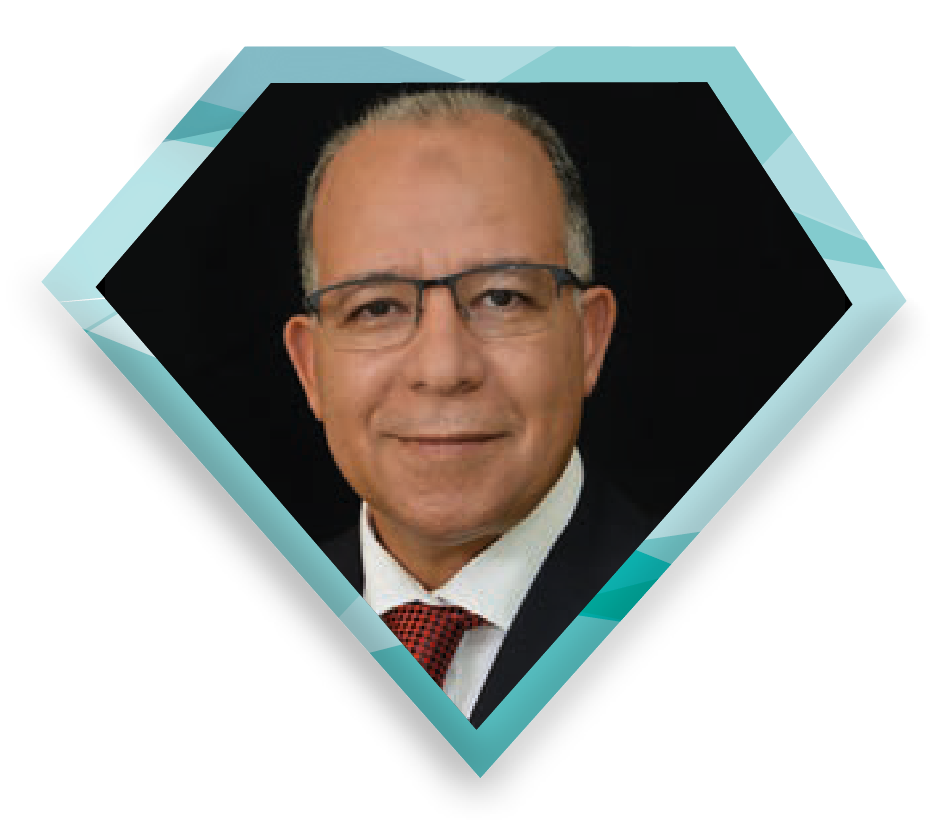
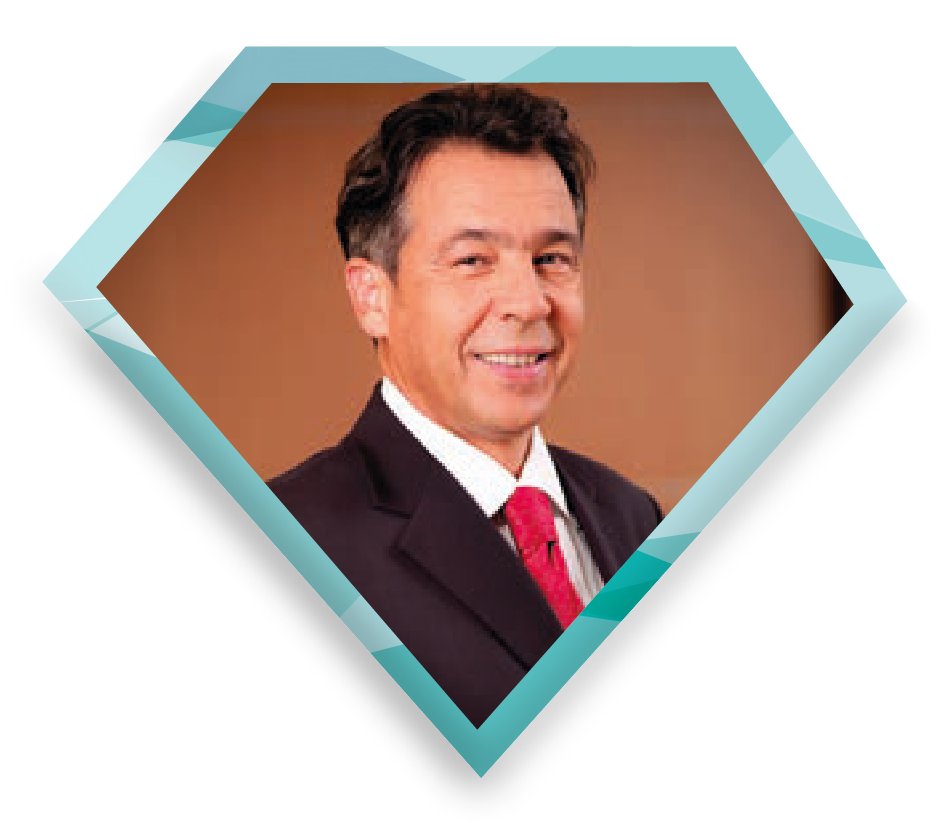
feat: update GovernanceCarousel component with multilingual subtitles and enhanced slide data

diff --git a/src/components/ui/GovernanceCarousel.vue b/src/components/ui/GovernanceCarousel.vue
@@ -16,7 +16,7 @@
       }"
       class="content-swiper"
     >
-      <swiper-slide v-for="slide in slides" :key="slide.id" class="h-auto px-64">
+      <swiper-slide v-for="(slide, i) in slides" :key="i" class="h-auto px-64">
         <div class="slide-card text-gray-600">
           <div class="flex gap-8">
             <img
@@ -26,7 +26,10 @@
             />
             <div>
               <h3 class="text-2xl font-bold text-primary uppercase">{{ slide.title }}</h3>
-              <h4 class="text-2xl font-bold text-accent">{{ slide.subtitle }}</h4>
+              <h4 class="text-2xl font-bold text-accent">
+                <span v-if="currentLanguage === 'en'">{{ slide.subtitleEn }}</span>
+                <span v-else-if="currentLanguage === 'fr'">{{ slide.subtitleFr }}</span>
+              </h4>
               <div class="mt-4">
                 <p v-if="currentLanguage === 'en'">{{ slide.content1En }}</p>
                 <p v-else-if="currentLanguage === 'fr'">
@@ -65,10 +68,10 @@ const modules = [Navigation, Pagination, Autoplay, EffectFade];
 
 const slides = [
   {
-    id: 1,
     img: "/assets/images/backgrounds/Biographies-01.png",
-    title: "Conseil d'Administration",
-    subtitle: "Gouvernance Stratégique",
+    title: "M. Othman Benjelloun",
+    subtitleFr: "PRÉSIDENT DIRECTEUR GÉNÉRAL DE BANK OF AFRICA",
+    subtitleEn: "CHAIRMAN & CHIEF EXECUTIVE OFFICER",
     content1Fr:
       "Le Conseil d'Administration de Bank of Africa définit les orientations stratégiques et supervise la mise en œuvre des politiques de développement durable.",
     content2Fr:
@@ -79,10 +82,10 @@ const slides = [
       "It ensures compliance with governance standards and protection of stakeholders' interests.",
   },
   {
-    id: 2,
     img: "/assets/images/backgrounds/Biographies-02.png",
-    title: "Comité d'Audit",
-    subtitle: "Contrôle et Transparence",
+    title: "M. Zouheir Bensaid",
+    subtitleFr: "Représentant de RMA",
+    subtitleEn: "RMA's Representative",
     content1Fr:
       "Le Comité d'Audit veille à la fiabilité des informations financières et à l'efficacité des systèmes de contrôle interne.",
     content2Fr:
@@ -93,10 +96,10 @@ const slides = [
       "It supervises external and internal audits to guarantee transparency and regulatory compliance.",
   },
   {
-    id: 3,
     img: "/assets/images/backgrounds/Biographies-03.png",
-    title: "Comité des Risques",
-    subtitle: "Gestion des Risques",
+    title: "M. Lucien Miara",
+    subtitleFr: "Représentant Permanent de la Banque Fédérale du Crédit Mutuel",
+    subtitleEn: "Permanent Representative of the Federal Bank of Mutual Credit",
     content1Fr:
       "Le Comité des Risques identifie, évalue et surveille tous les types de risques auxquels la banque est exposée.",
     content2Fr:
@@ -107,24 +110,10 @@ const slides = [
       "It defines risk management policies and ensures their effective implementation.",
   },
   {
-    id: 4,
     img: "/assets/images/backgrounds/Biographies-04.png",
-    title: "Comité de Rémunération",
-    subtitle: "Politique de Rémunération",
-    content1Fr:
-      "Le Comité de Rémunération établit les politiques de rémunération alignées sur les objectifs stratégiques de la banque.",
-    content2Fr:
-      "Il veille à l'équité et à la compétitivité des packages de rémunération pour attirer et retenir les talents.",
-    content1En:
-      "The Remuneration Committee establishes remuneration policies aligned with the bank's strategic objectives.",
-    content2En:
-      "It ensures the fairness and competitiveness of remuneration packages to attract and retain talent.",
-  },
-  {
-    id: 5,
-    img: "/assets/images/backgrounds/Biographies-05.png",
-    title: "Comité de Nomination",
-    subtitle: "Sélection et Gouvernance",
+    title: "M. Abdellatif Zaghnoun",
+    subtitleFr: "Représentant Permanent de la Caisse de Dépot et de Gestion",
+    subtitleEn: "Permanent Representative of the Deposit and Management Fund",
     content1Fr:
       "Le Comité de Nomination supervise la sélection et la nomination des membres du conseil et des dirigeants clés.",
     content2Fr:
@@ -135,10 +124,10 @@ const slides = [
       "It ensures the diversity, skills and independence necessary for the proper functioning of governance bodies.",
   },
   {
-    id: 6,
-    img: "/assets/images/backgrounds/Biographies-06.png",
-    title: "Direction Générale",
-    subtitle: "Exécution Stratégique",
+    img: "/assets/images/backgrounds/Biographies-05.png",
+    title: "M. Hicham El Amrani",
+    subtitleFr: "Représentant Permanent de O Capital Group",
+    subtitleEn: "O Capital Group's Permanent Representative",
     content1Fr:
       "La Direction Générale assure l'exécution de la stratégie définie par le Conseil d'Administration.",
     content2Fr:
@@ -149,10 +138,10 @@ const slides = [
       "It coordinates operational activities and ensures the achievement of performance and sustainable development objectives.",
   },
   {
-    id: 7,
-    img: "/assets/images/backgrounds/Biographies-07.png",
-    title: "Contrôle Interne",
-    subtitle: "Surveillance et Conformité",
+    img: "/assets/images/backgrounds/Biographies-06.png",
+    title: "M. Azeddine Guessous",
+    subtitleFr: "Administrateur Intuitu Personae",
+    subtitleEn: "Intuitu Personae Director",
     content1Fr:
       "Le département de Contrôle Interne surveille en permanence les processus et procédures pour assurer leur conformité.",
     content2Fr:
@@ -163,10 +152,10 @@ const slides = [
       "It identifies potential gaps and recommends improvements to strengthen operational efficiency.",
   },
   {
-    id: 8,
-    img: "/assets/images/backgrounds/Biographies-08.png",
-    title: "Audit Interne",
-    subtitle: "Évaluation Indépendante",
+    img: "/assets/images/backgrounds/Biographies-07.png",
+    title: "M. Marc Beaujean",
+    subtitleFr: "Représentant Permanent de British International Investment (CDC Ltd)",
+    subtitleEn: "British International Investment (CDC Ltd) Permanent Representative",
     content1Fr:
       "L'Audit Interne fournit une évaluation indépendante de l'efficacité des systèmes de gouvernance et de contrôle.",
     content2Fr:
@@ -177,10 +166,10 @@ const slides = [
       "It contributes to the continuous improvement of processes and operational risk management.",
   },
   {
-    id: 9,
-    img: "/assets/images/backgrounds/Biographies-09.png",
-    title: "Développement Durable",
-    subtitle: "Responsabilité Sociétale",
+    img: "/assets/images/backgrounds/Biographies-08.png",
+    title: "M. Mohamed Kabbaj",
+    subtitleFr: "Administrateur Indépendant",
+    subtitleEn: "Independent Director",
     content1Fr:
       "L'intégration du développement durable dans la gouvernance guide toutes les décisions stratégiques de la banque.",
     content2Fr:
@@ -191,10 +180,10 @@ const slides = [
       "This approach ensures a positive impact on the environment, society and the African economy.",
   },
   {
-    id: 10,
-    img: "/assets/images/backgrounds/Biographies-10.png",
-    title: "Innovation et Transformation",
-    subtitle: "Vision Future",
+    img: "/assets/images/backgrounds/Biographies-09.png",
+    title: "Mme Nezha Lahrichi",
+    subtitleFr: "Administratrice Indépendante",
+    subtitleEn: "Independent Director",
     content1Fr:
       "La gouvernance encourage l'innovation et la transformation digitale pour maintenir la compétitivité de la banque.",
     content2Fr:
@@ -205,10 +194,10 @@ const slides = [
       "It promotes the adoption of new technologies while preserving the fundamental values of the institution.",
   },
   {
-    id: 11,
-    img: "/assets/images/backgrounds/Biographies-11.png",
-    title: "Gestion des Talents",
-    subtitle: "Capital Humain",
+    img: "/assets/images/backgrounds/Biographies-10.png",
+    title: "M. Abdou Bensouda",
+    subtitleFr: "Administrateur Intuitu Personae",
+    subtitleEn: "Intuitu Personae Director",
     content1Fr:
       "La gouvernance met l'accent sur le développement et la rétention des talents pour assurer la pérennité de l'institution.",
     content2Fr:
@@ -219,10 +208,10 @@ const slides = [
       "It promotes an inclusive and stimulating work environment for all employees.",
   },
   {
-    id: 12,
-    img: "/assets/images/backgrounds/Biographies-12.png",
-    title: "Relation Client",
-    subtitle: "Excellence Service",
+    img: "/assets/images/backgrounds/Biographies-11.png",
+    title: "M. Brahim Benjelloun-Touimi",
+    subtitleFr: "Administrateur Directeur Général Délégué",
+    subtitleEn: "Director and General Manager",
     content1Fr:
       "La gouvernance place la satisfaction client au cœur de ses préoccupations stratégiques.",
     content2Fr:
@@ -233,10 +222,10 @@ const slides = [
       "It ensures the highest standards of service quality and customer experience are maintained.",
   },
   {
-    id: 13,
-    img: "/assets/images/backgrounds/Biographies-13.png",
-    title: "Partenariats Stratégiques",
-    subtitle: "Collaboration Efficace",
+    img: "/assets/images/backgrounds/Biographies-12.png",
+    title: "Mme Myryem Bouazzaoui",
+    subtitleFr: "Administratrice Intuitu Personae",
+    subtitleEn: "Intuitu Personae Director",
     content1Fr:
       "La gouvernance supervise le développement de partenariats stratégiques pour renforcer la position de la banque.",
     content2Fr:
@@ -247,10 +236,10 @@ const slides = [
       "It ensures these alliances create value for all stakeholders.",
   },
   {
-    id: 14,
-    img: "/assets/images/backgrounds/Biographies-14.png",
-    title: "Régulation Bancaire",
-    subtitle: "Conformité Réglementaire",
+    img: "/assets/images/backgrounds/Biographies-13.png",
+    title: "M. Brian C. Mck Henderson",
+    subtitleFr: "Conseiller auprès de la Présidence",
+    subtitleEn: "Advisor to the Chairman",
     content1Fr:
       "La gouvernance assure le respect strict de toutes les réglementations bancaires nationales et internationales.",
     content2Fr:
@@ -261,10 +250,10 @@ const slides = [
       "It anticipates regulatory changes to maintain permanent compliance.",
   },
   {
-    id: 15,
-    img: "/assets/images/backgrounds/Biographies-15.png",
-    title: "Inclusion Financière",
-    subtitle: "Accessibilité Services",
+    img: "/assets/images/backgrounds/Biographies-14.png",
+    title: "Mounir Chraibi",
+    subtitleFr: "Directeur Général Exécutif en charge des Fonctions et Opérations Groupe",
+    subtitleEn: "Executive General Manager Responsible for Group Functions and Operations",
     content1Fr:
       "La gouvernance promeut l'inclusion financière pour démocratiser l'accès aux services bancaires.",
     content2Fr:
@@ -275,10 +264,10 @@ const slides = [
       "It develops solutions adapted to the needs of unbanked populations.",
   },
   {
-    id: 16,
-    img: "/assets/images/backgrounds/Biographies-16.png",
-    title: "Cybersécurité",
-    subtitle: "Protection Numérique",
+    img: "/assets/images/backgrounds/Biographies-15.png",
+    title: "M. Khalid Nasr",
+    subtitleFr: "Directeur Général Exécutif en charge de CIB & Maroc",
+    subtitleEn: "Executive General Manager Responsible for CIB & Morocco",
     content1Fr:
       "La gouvernance renforce continuellement les mesures de cybersécurité pour protéger les actifs numériques.",
     content2Fr:
@@ -289,10 +278,10 @@ const slides = [
       "It invests in cutting-edge technologies to anticipate and counter cyber threats.",
   },
   {
-    id: 17,
-    img: "/assets/images/backgrounds/Biographies-17.png",
-    title: "Expansion Internationale",
-    subtitle: "Croissance Stratégique",
+    img: "/assets/images/backgrounds/Biographies-16.png",
+    title: "M. Amine Bouabid",
+    subtitleFr: "Directeur Général Exécutif en charge de l'Afrique",
+    subtitleEn: "Executive General Manager Responsible for Africa",
     content1Fr:
       "La gouvernance guide l'expansion internationale de la banque vers de nouveaux marchés prometteurs.",
     content2Fr:
@@ -303,10 +292,10 @@ const slides = [
       "It evaluates opportunities while managing risks related to internationalization.",
   },
   {
-    id: 18,
-    img: "/assets/images/backgrounds/Biographies-18.png",
-    title: "Performance Financière",
-    subtitle: "Rentabilité Durable",
+    img: "/assets/images/backgrounds/Biographies-17.png",
+    title: "M. M'Fadel El Halaissi",
+    subtitleFr: "Directeur Général Délégué en charge de l'Ingénierie, Recouvrement & Missions Spécifiques",
+    subtitleEn: "Delegate General Manager Responsible for Financial Engineering, Recovery & Special Assignments",
     content1Fr:
       "La gouvernance veille à maintenir une performance financière solide et durable pour tous les actionnaires.",
     content2Fr:
@@ -317,10 +306,24 @@ const slides = [
       "It balances growth and prudence to ensure the institution's long-term stability.",
   },
   {
-    id: 19,
+    img: "/assets/images/backgrounds/Biographies-18.png",
+    title: "M. Omar Tazi",
+    subtitleFr: "Directeur Général Délégué en charge de la Banque au Maroc",
+    subtitleEn: "Delegate General Manager Responsible for Banking in Morocco",
+    content1Fr:
+      "La gouvernance veille à maintenir une performance financière solide et durable pour tous les actionnaires.",
+    content2Fr:
+      "Elle équilibre croissance et prudence pour assurer la stabilité à long terme de l'institution.",
+    content1En:
+      "Governance ensures solid and sustainable financial performance for all shareholders.",
+    content2En:
+      "It balances growth and prudence to ensure the institution's long-term stability.",
+  },
+  {
     img: "/assets/images/backgrounds/Biographies-19.png",
-    title: "Performance Financière",
-    subtitle: "Rentabilité Durable",
+    title: "M. Khalid Laabi",
+    subtitleFr: "Directeur Général Délégué en charge des Risques Groupe",
+    subtitleEn: "Delegate General Manager Responsible for Group Risks",
     content1Fr:
       "La gouvernance veille à maintenir une performance financière solide et durable pour tous les actionnaires.",
     content2Fr:
